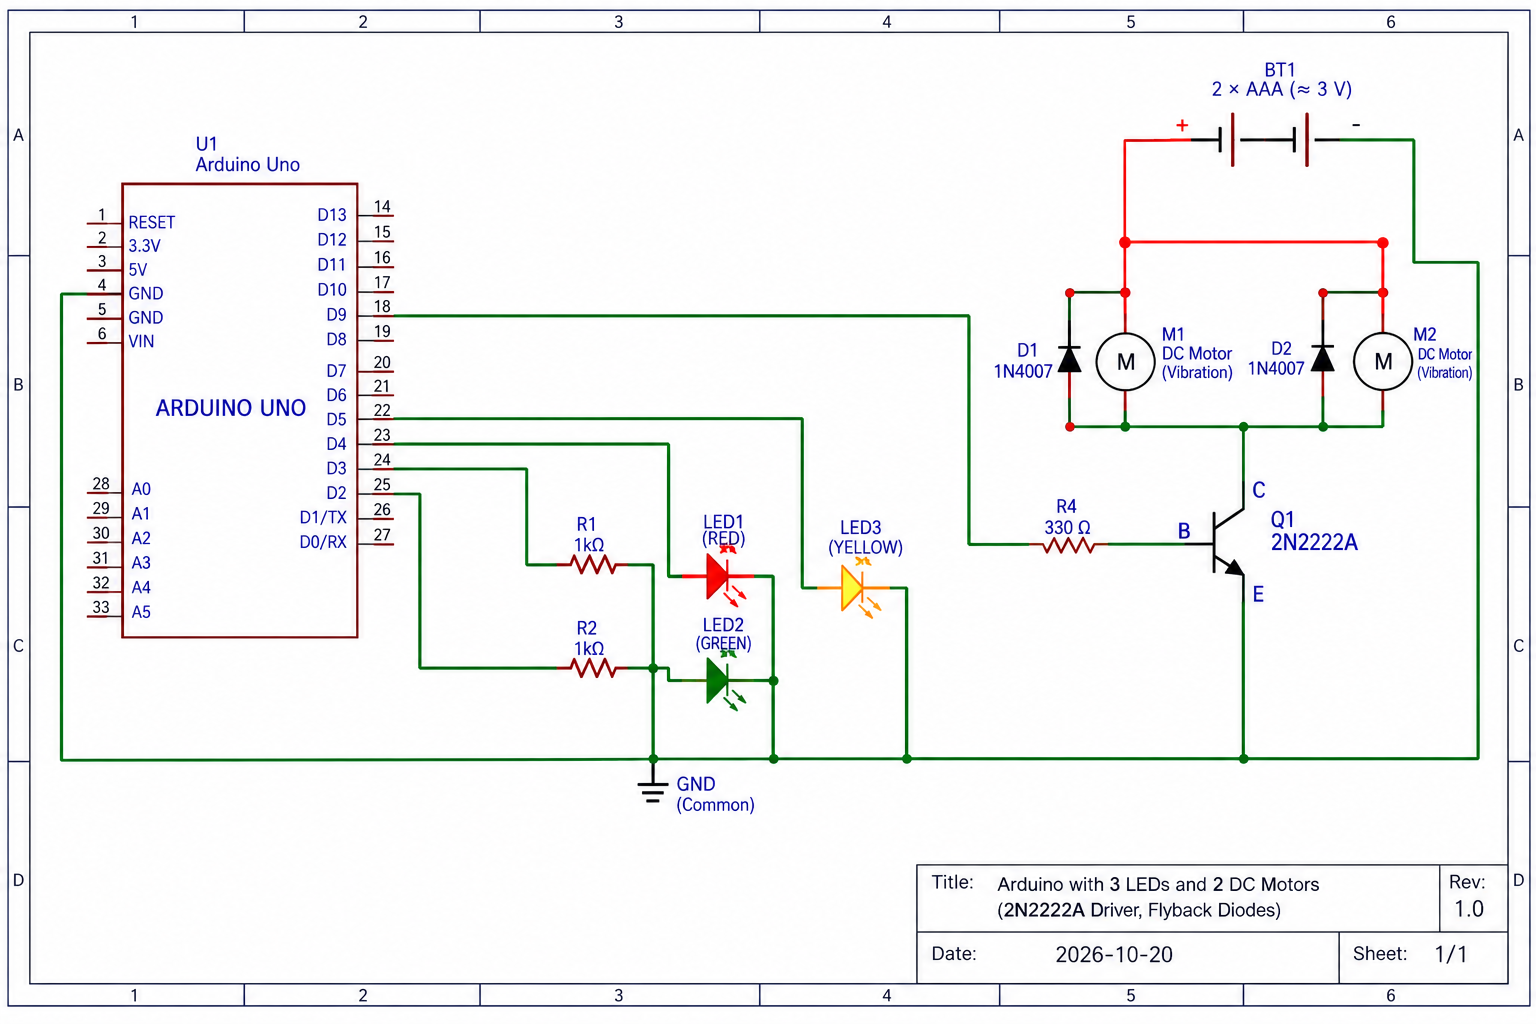
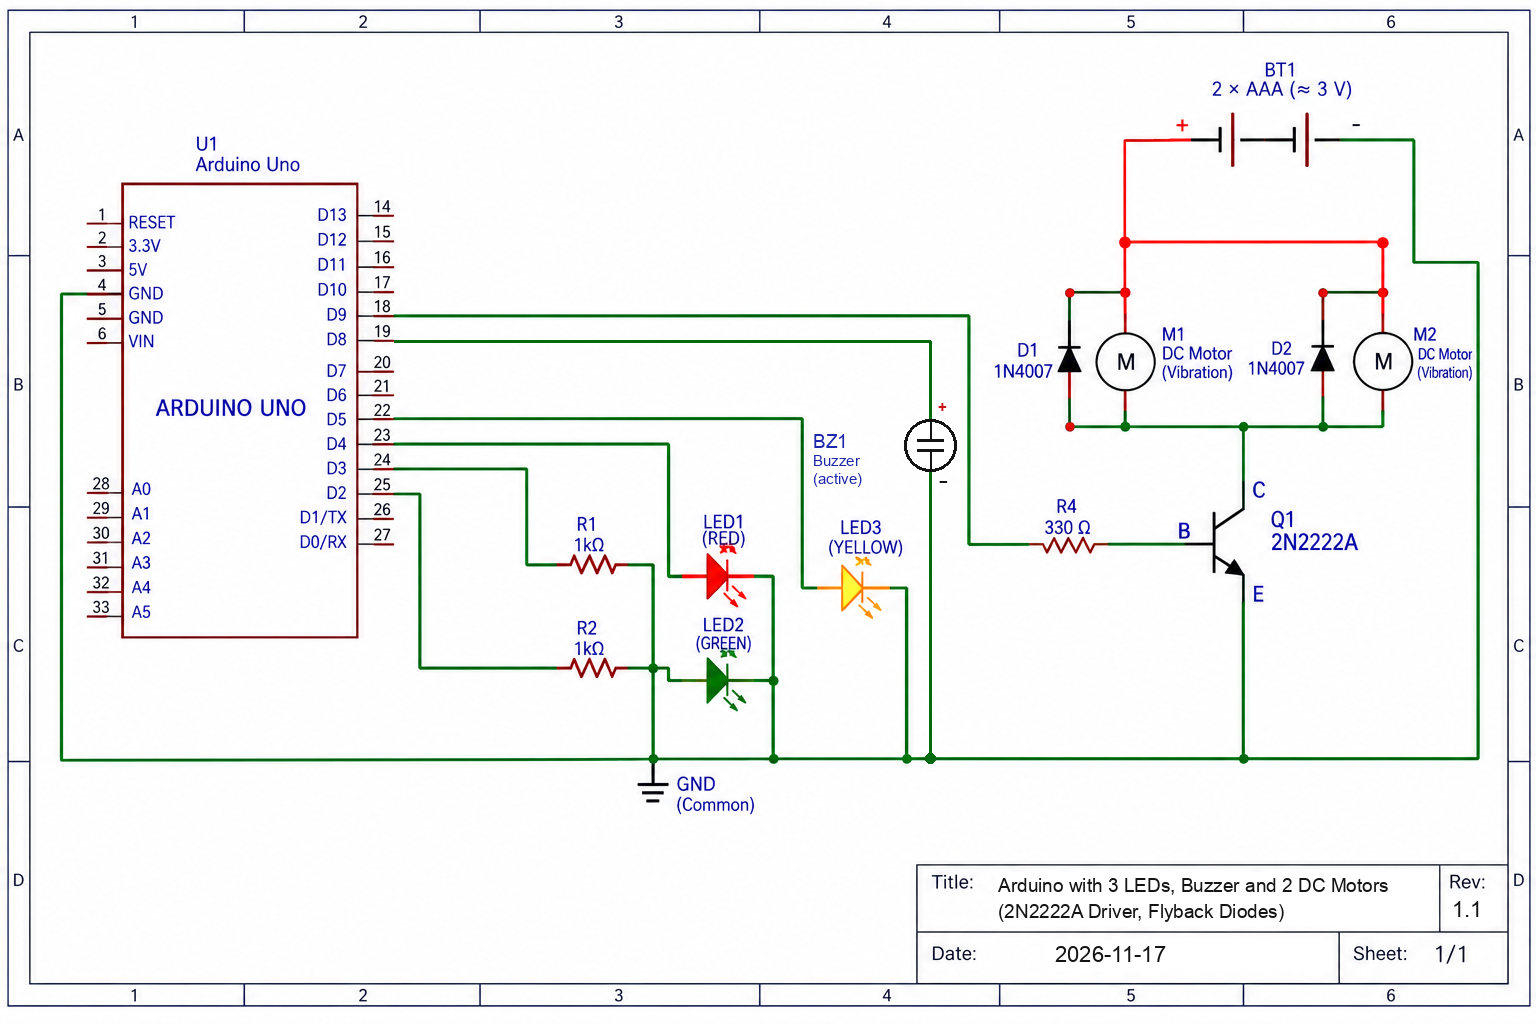
added privacy policies

diff --git a/monitoring/static/monitoring/css/review.css b/monitoring/static/monitoring/css/review.css
@@ -2072,3 +2072,19 @@ body.mlops-page .stage {
   .q-row { grid-template-columns: minmax(0, 1fr); }
   .q-row form { display: grid; grid-template-columns: 1fr 1fr 1fr; }
 }
+
+/* Privacy notice and terms (/privacy/) */
+.policy { max-width: 46rem; margin: 0 auto; padding: 2rem 1.25rem 3rem; color: var(--ink); line-height: 1.6; }
+.policy h1 { font-size: 1.6rem; margin: 0.2rem 0 0.8rem; }
+.policy h2 { font-size: 1.05rem; margin: 1.8rem 0 0.4rem; }
+.policy ul { padding-left: 1.2rem; }
+.policy li { margin: 0.3rem 0; }
+.policy-kicker { color: var(--muted); font-size: 0.85rem; margin: 0; }
+.policy-lede { color: var(--muted); }
+.policy-promise { border-left: 3px solid var(--danger); padding: 0.4rem 0.8rem; background: var(--panel); }
+.policy-foot { margin-top: 2rem; }
+.delete-recording { margin-top: 1rem; }
+.delete-recording button { background: none; border: 1px solid var(--danger); color: var(--danger); border-radius: var(--radius); padding: 0.45rem 0.9rem; font: inherit; cursor: pointer; }
+.delete-recording button:hover { background: var(--danger); color: #fff; }
+.signin-privacy { margin-top: 0.9rem; font-size: 0.85rem; text-align: center; }
+.signin-privacy a { color: var(--muted); }

diff --git a/monitoring/templates/monitoring/review/base.html b/monitoring/templates/monitoring/review/base.html
@@ -10,7 +10,7 @@
   <link rel="preconnect" href="https://fonts.gstatic.com" crossorigin />
   <link href="https://fonts.googleapis.com/css2?family=Inter:wght@400;500;600;700&display=swap" rel="stylesheet" />
   <link rel="stylesheet" href="https://cdnjs.cloudflare.com/ajax/libs/font-awesome/6.5.2/css/all.min.css" />
-  <link rel="stylesheet" href="{% static 'monitoring/css/review.css' %}?v=37" />
+  <link rel="stylesheet" href="{% static 'monitoring/css/review.css' %}?v=38" />
   <script>
     try {
       if (localStorage.getItem("sams-nav") === "open") document.documentElement.classList.add("nav-open");
@@ -46,6 +46,10 @@
         <span class="rail-label">MLOps</span>
       </a>
       <span class="rail-gap"></span>
+      <a class="rail-link{% if nav == 'privacy' %} is-on{% endif %}" href="{% url 'review_privacy' %}" title="Privacy and terms"{% if nav == 'privacy' %} aria-current="page"{% endif %}>
+        <i class="fa-solid fa-shield-halved" aria-hidden="true"></i>
+        <span class="rail-label">Privacy</span>
+      </a>
       {% if user.is_authenticated %}
       <form method="post" action="{% url 'review_logout' %}">
         {% csrf_token %}

diff --git a/monitoring/templates/monitoring/phone_cam.html b/monitoring/templates/monitoring/phone_cam.html
@@ -71,6 +71,8 @@
     }
     .err-box { background: #2a1215; color: #ffb4b4; }
     .warn-box { background: #2a2412; color: #ffd38a; }
+    .notice { font-size: 0.8rem; opacity: 0.8; padding: 0 1rem 1rem; line-height: 1.4; }
+    .notice a { color: inherit; }
   </style>
 </head>
 <body>
@@ -95,6 +97,8 @@
     <button type="button" id="start">Start camera</button>
     <button type="button" class="ghost" id="stop" disabled>Stop</button>
   </div>
+  <p class="notice">This camera records the machine area for SAMS safety warnings. Video stays on the site server and is deleted after a set period.
+    <a href="{% url 'review_privacy' %}" target="_blank" rel="noopener">Privacy notice</a></p>
   <script>
     const token = "{{ token|escapejs }}";
     const statusEl = document.getElementById("status");

diff --git a/monitoring/templates/monitoring/review/detail.html b/monitoring/templates/monitoring/review/detail.html
@@ -64,6 +64,13 @@
       </ul>
     </aside>
     {% endif %}
+    {% if recording.render_status != "pending" %}
+    <form class="delete-recording" method="post" action="{% url 'review_recording_delete' recording.pk %}"
+          onsubmit="return confirm('Delete this recording for good? The video, the annotated copy and every saved frame are erased.');">
+      {% csrf_token %}
+      <button type="submit"><i class="fa-solid fa-trash" aria-hidden="true"></i> Delete recording</button>
+    </form>
+    {% endif %}
   </div>
 </section>
 

diff --git a/monitoring/templates/monitoring/review/login.html b/monitoring/templates/monitoring/review/login.html
@@ -59,6 +59,7 @@
       </label>
       <button type="submit">Continue</button>
     </form>
+    <p class="signin-privacy"><a href="{% url 'review_privacy' %}">Privacy notice and terms of use</a></p>
   </div>
 </div>
 <script>

diff --git a/monitoring/review_views.py b/monitoring/review_views.py
@@ -19,6 +19,7 @@ from django.views.decorators.http import require_http_methods, require_POST
 from .models import RISK_LABELS, InteractionEvent, Recording, RecordingMinute, Trial
 from .services import trials, video_analysis
 from .services.mlops import export_zip, kept_minutes, model_cards
+from .services.recordings import delete_recording as erase_recording
 from .services.recordings import log_line
 from .services.vision_inference import pose_overlay_config
 
@@ -661,4 +662,25 @@ def recording_detail(request: HttpRequest, pk: int) -> HttpResponse:
             "status_label": _status_label(recording),
             "pose_overlay": pose_overlay_config(),
         },
+    )
+
+
+@login_required(login_url="review_entrance")
+@require_POST
+def delete_recording(request: HttpRequest, pk: int) -> HttpResponse:
+    """Erase one recording and every frame taken from it (right to erasure)."""
+    recording = get_object_or_404(Recording, pk=pk)
+    if recording.render_status == "pending":
+        # A live session still writing frames, or a clip still being analysed.
+        return redirect("review_recording", pk=pk)
+    erase_recording(recording)
+    return redirect("review_archive")
+
+
+def privacy(request: HttpRequest) -> HttpResponse:
+    """Privacy notice and terms of use. Public, so workers and phone users can read it without an account."""
+    return render(
+        request,
+        "monitoring/review/privacy.html",
+        {"nav": "privacy", "retention_days": settings.SAMS_RETENTION_DAYS},
     )

diff --git a/monitoring/services/recordings.py b/monitoring/services/recordings.py
@@ -2,6 +2,7 @@
 
 from __future__ import annotations
 
+import shutil
 from pathlib import Path
 
 _DISTANCE_LABEL = {"tof": "sensor", "vision": "body"}
@@ -247,3 +248,21 @@ def encode_clip(frames: list[tuple[float, bytes | Path]], dest, *, fps: float = 
     finally:
         writer.close()
     return end_t
+
+
+def delete_recording(recording) -> None:
+    """Erase a recording for good: both videos, every log-card frame, leftover live frames, then the rows.
+
+    Used by the Delete button (a person asks for their footage to be erased) and by
+    ``purge_recordings`` (footage older than the retention period).
+    """
+    from .live_recorder import frames_dir
+
+    for mark in recording.minutes.all():
+        if mark.snapshot:
+            mark.snapshot.delete(save=False)
+    for field in (recording.video, recording.framed):
+        if field:
+            field.delete(save=False)
+    shutil.rmtree(frames_dir(recording.pk), ignore_errors=True)
+    recording.delete()

diff --git a/monitoring/urls.py b/monitoring/urls.py
@@ -18,6 +18,8 @@ urlpatterns = [
     path("logout/", review_views.logout_view, name="review_logout"),
     path("recordings/<int:pk>/status/", review_views.recording_status, name="review_recording_status"),
     path("recordings/<int:pk>/", review_views.recording_detail, name="review_recording"),
+    path("recordings/<int:pk>/delete/", review_views.delete_recording, name="review_recording_delete"),
+    path("privacy/", review_views.privacy, name="review_privacy"),
     path("favicon.ico", views.favicon, name="favicon"),
     path("api/health/", views.health, name="api_health"),
     path("api/control/live/", views.control_live, name="api_control_live"),

diff --git a/SAMS/settings.py b/SAMS/settings.py
@@ -119,6 +119,10 @@ STATICFILES_DIRS = []
 MEDIA_URL = "media/"
 MEDIA_ROOT = Path(os.environ.get("SAMS_MEDIA_ROOT", str(BASE_DIR / "media")))
 
+# Footage older than this is erased by `manage.py purge_recordings` (Law N° 058/2021, Art. 37(5°)).
+# Moments a safety officer kept for training are the only exception.
+SAMS_RETENTION_DAYS = int(os.environ.get("SAMS_RETENTION_DAYS", "30"))
+
 LOGIN_URL = "review_entrance"
 LOGIN_REDIRECT_URL = "review_entrance"
 

diff --git a/hardware/README.md b/hardware/README.md
@@ -15,7 +15,7 @@ The board side of SAMS: an Arduino Uno that streams the machine's vibration and 
 
 ## Schematic
 
-![SAMS schematic: Arduino Uno with status LEDs and the 2N2222A-driven vibration motors](../Design/Schematic-Design.png)
+![SAMS schematic: Arduino Uno with status LEDs, the D8 active buzzer and the 2N2222A-driven vibration motors](../Design/Schematic-Design.png)
 
 The firmware, [`firmware/mpu6050_serial/mpu6050_serial.ino`](firmware/mpu6050_serial/mpu6050_serial.ino), is the reference for pin numbers. The tables below are taken from it. The sketch folder name is historical; the board IMU is an **MPU9250/6500** (WHO_AM_I also recognises MPU6050 / MPU9255).
 
